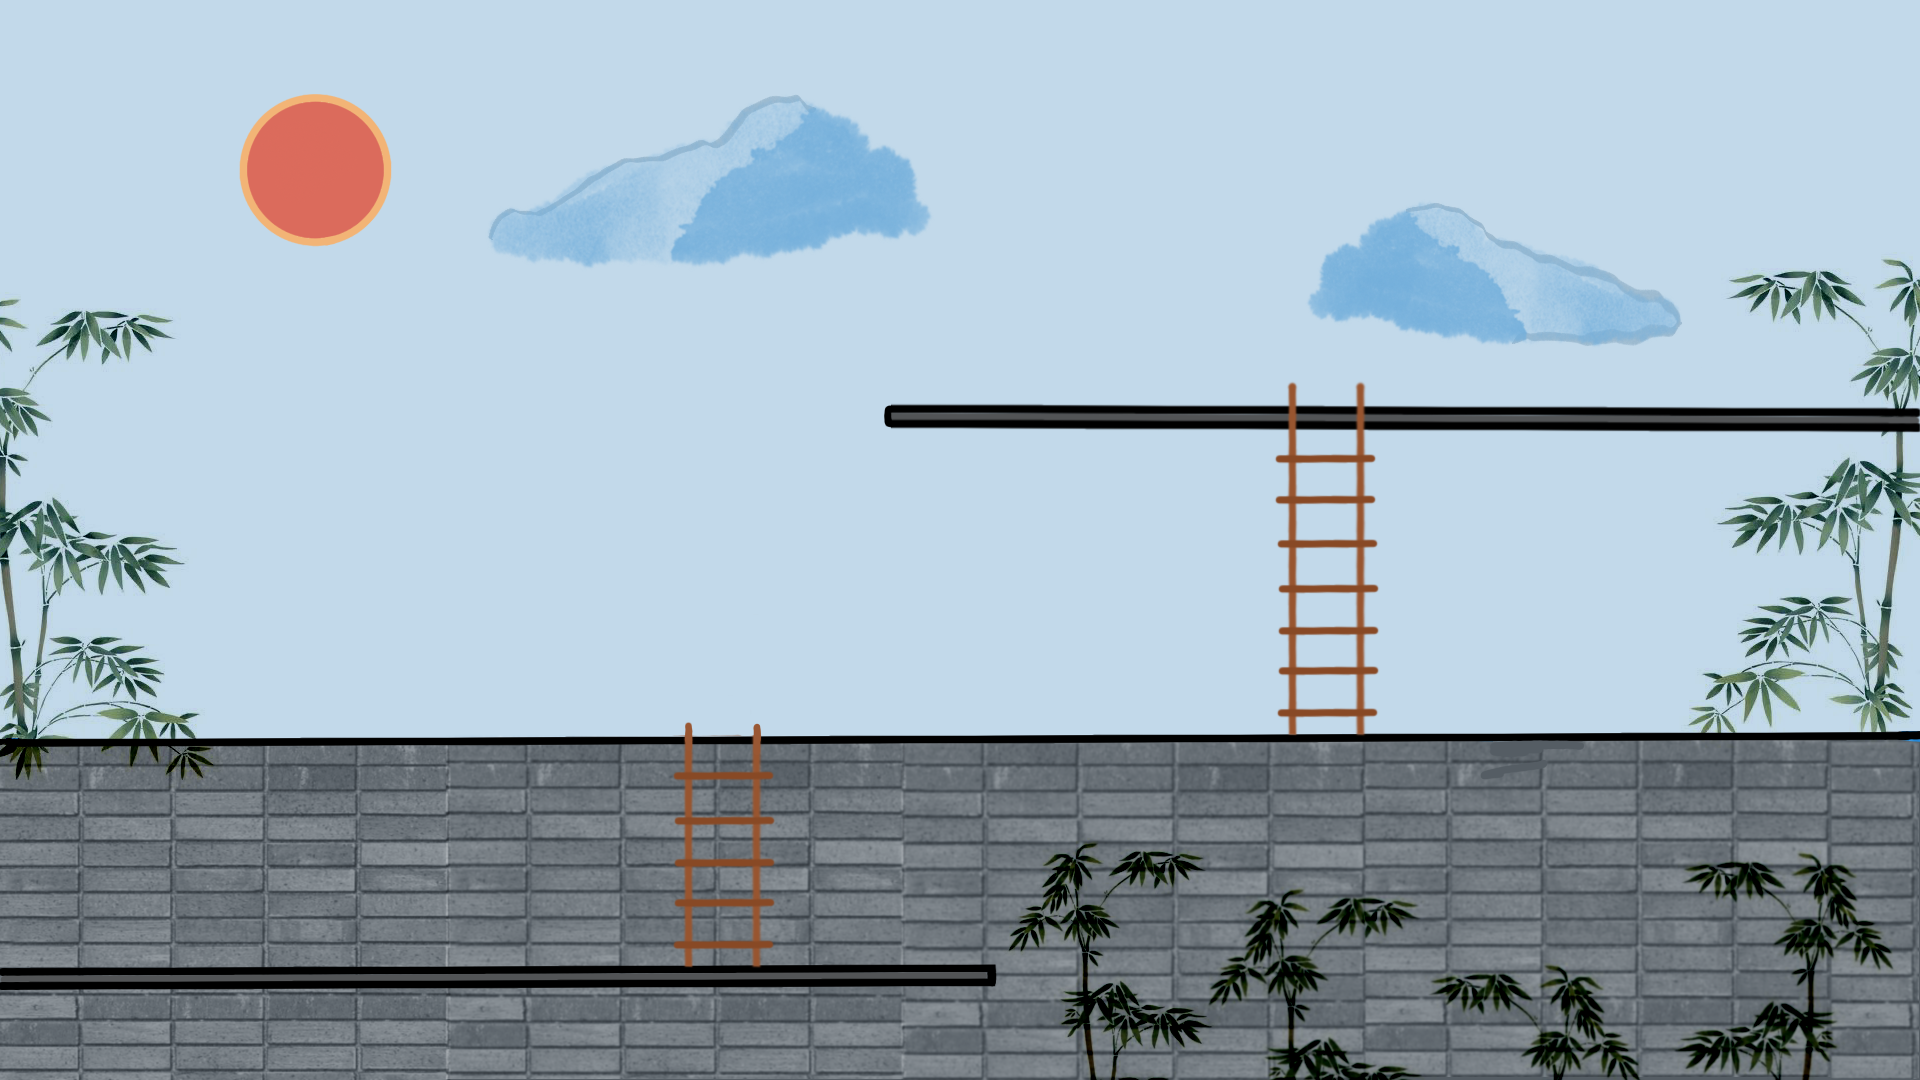
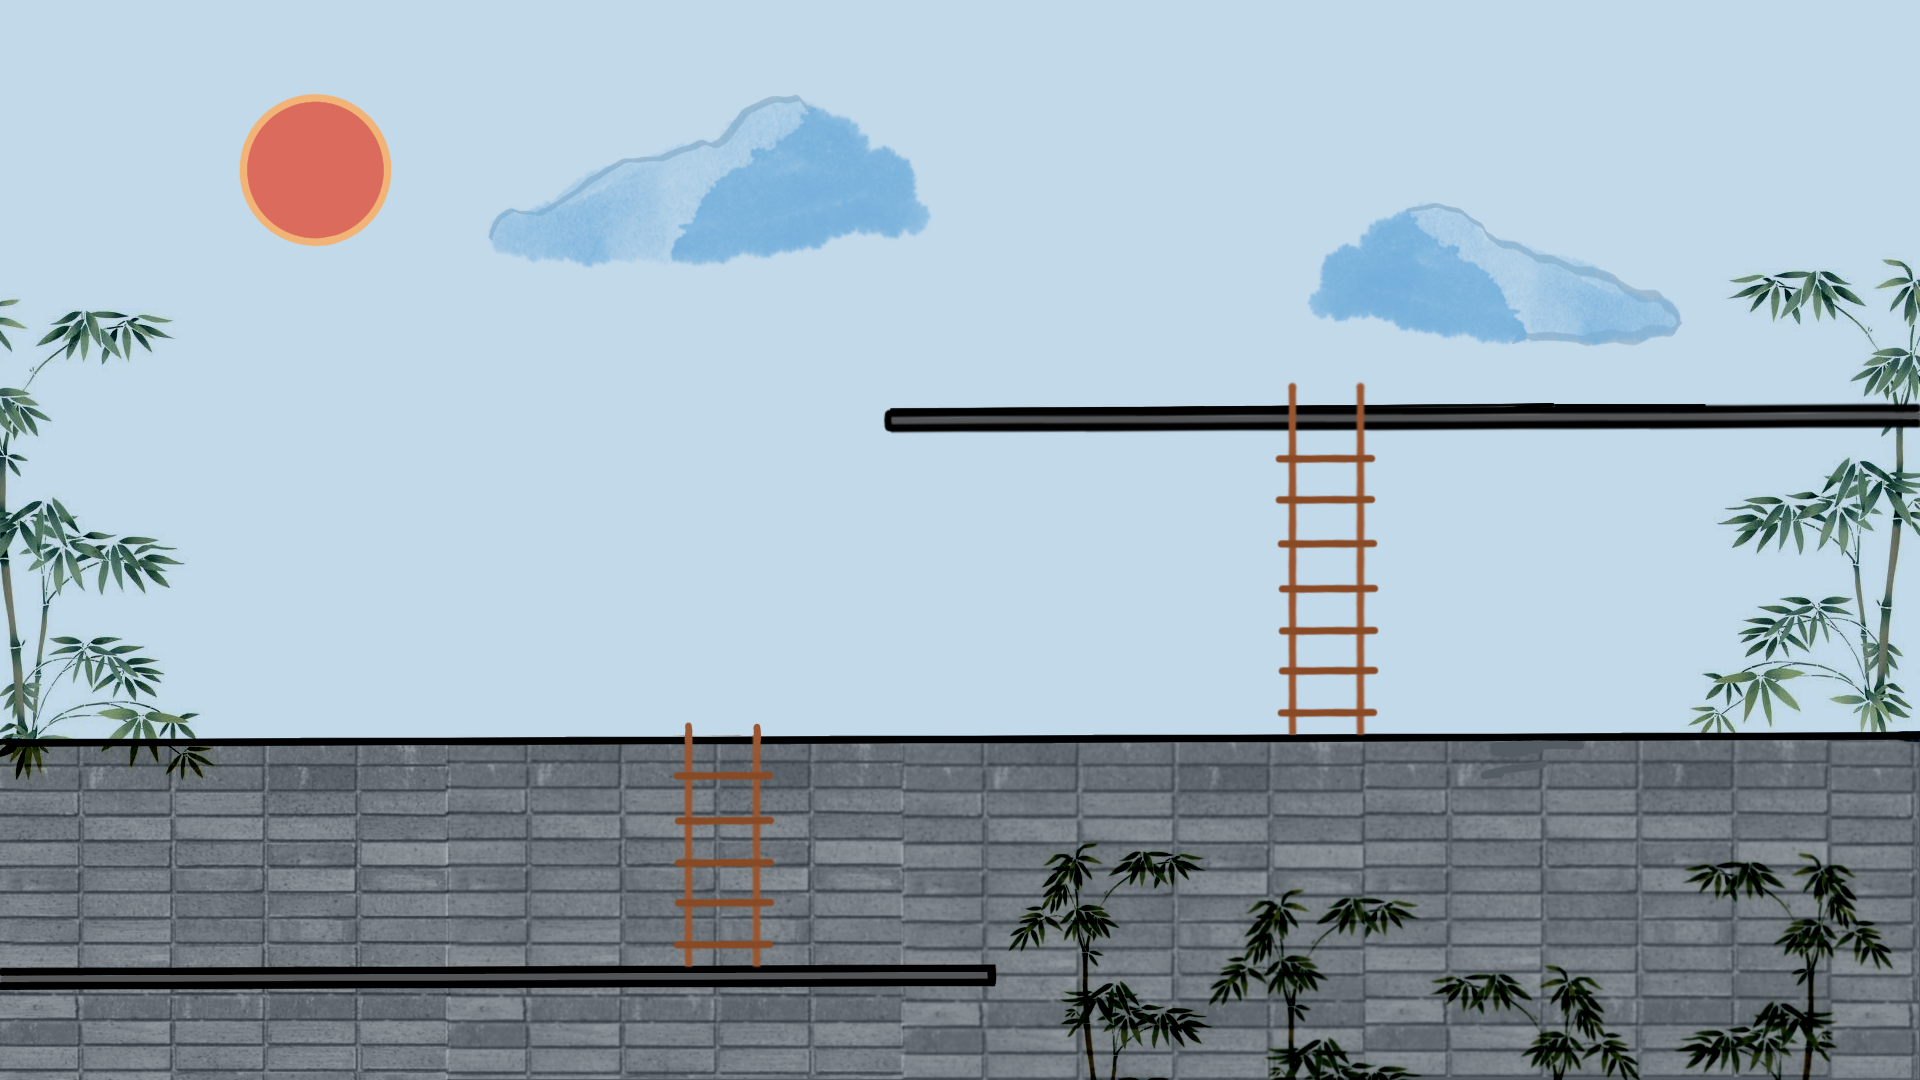
4 version

Changed region(s): [[0.4375, 0.3667, 0.6875, 0.4278], [0.75, 0.3667, 1.0, 0.3972]]

diff --git a/core/src/ru/myitschool/ronin/ScreenGame3.java b/core/src/ru/myitschool/ronin/ScreenGame3.java
@@ -1,5 +1,7 @@
 package ru.myitschool.ronin;
 
+
+
 import static ru.myitschool.ronin.MyGG.SCR_HEIGHT;
 import static ru.myitschool.ronin.MyGG.SCR_WIDTH;
 
@@ -8,7 +10,7 @@ import com.badlogic.gdx.Screen;
 import com.badlogic.gdx.graphics.Texture;
 import com.badlogic.gdx.utils.TimeUtils;
 
-public class ScreenGame implements Screen {
+public class ScreenGame3 implements Screen {
     MyGG gg;
     Texture imgGame1;
     TextButton  btnBack;
@@ -18,24 +20,26 @@ public class ScreenGame implements Screen {
     Ronin ronin;
     long timeStart;
 
-    float[] level = new float[]{110, 337, 670}; // уровни экрана
-    Ladder[] ladders = new Ladder[2]; // лестницы экрана
+    float[] level = new float[]{110, 337, 670};
+    Ladder[] ladders = new Ladder[2];
 
-    public ScreenGame(MyGG myGG) {
+    public ScreenGame3(MyGG myGG) {
         gg = myGG;
-        imgGame1 = new Texture("Game1.png"); // картинка экрана
+        imgGame1 = new Texture("Game1.png");
         btnBack = new TextButton(gg.fontSmall, "Back", SCR_WIDTH-130, SCR_HEIGHT);
         imgRonin = new  Texture("Ronin.png");
 
         ronin = new Ronin(SCR_WIDTH/6f-100,level[1],130,144);
-        ladders[0] = new Ladder(686, 754, level[0], level[1]); // лестницы экрана
-        ladders[1] = new Ladder(1290, 1362, level[1], level[2]); // лестницы экрана
+        ladders[0] = new Ladder(561, 643, level[1], level[2]);
+        ladders[1] = new Ladder(1659, 1732, level[0], level[1]);
     }
 
 
     @Override
     public void show() {
-        timeStart =TimeUtils.millis();
+        timeStart = TimeUtils.millis();
+
+
     }
 
     @Override
@@ -44,6 +48,7 @@ public class ScreenGame implements Screen {
         if(Gdx.input.justTouched()) {
             gg.touch.set(Gdx.input.getX(), Gdx.input.getY(), 0);
             gg.camera.unproject(gg.touch);
+            System.out.println(gg.touch.x +" "+ gg.touch.y);
             if(btnBack.hit(gg.touch.x, gg.touch.y)){
                 gg.setScreen(gg.screenIntro);
             } else {
@@ -77,9 +82,9 @@ public class ScreenGame implements Screen {
             }
         }
         // переходы на другие экраны
-        if(ronin.x > SCR_WIDTH-ronin.width/2){
-            gg.screenGame2.ronin.x = gg.screenGame2.ronin.width/2;
-            gg.screenGame2.ronin.y = ronin.y;
+        if(ronin.x < ronin.width/2){
+            gg.screenGame.ronin.x = SCR_WIDTH-gg.screenGame.ronin.width/2;
+            gg.screenGame.ronin.y = ronin.y;
             ronin.targetX = ronin.x-ronin.vx;
             gg.setScreen(gg.screenGame2);
         }
@@ -118,5 +123,3 @@ public class ScreenGame implements Screen {
         imgGame1.dispose();
     }
 }
-
-

diff --git a/core/src/ru/myitschool/ronin/ScreenGame2.java b/core/src/ru/myitschool/ronin/ScreenGame2.java
@@ -30,8 +30,8 @@ public class ScreenGame2 implements Screen {
         imgRonin = new  Texture("Ronin.png");
 
         ronin = new Ronin(SCR_WIDTH/6f-100,level[1],130,144);
-        ladders[0] = new Ladder(686, 754, level[0], level[1]);
-        ladders[1] = new Ladder(1290, 1362, level[1], level[2]);
+        ladders[0] = new Ladder(561, 643, level[1], level[2]);
+        ladders[1] = new Ladder(1659, 1732, level[0], level[1]);
     }
 
 
@@ -88,6 +88,13 @@ public class ScreenGame2 implements Screen {
             ronin.targetX = ronin.x-ronin.vx;
             gg.setScreen(gg.screenGame);
         }
+        if(ronin.x > SCR_WIDTH-ronin.width/2){
+            gg.screenGame2.ronin.x = gg.screenGame2.ronin.width/2;
+            gg.screenGame2.ronin.y = ronin.y;
+            ronin.targetX = ronin.x-ronin.vx;
+            gg.setScreen(gg.screenGame3);
+        }
+
 
         // отрисовка графики
         gg.camera.update();
@@ -95,7 +102,6 @@ public class ScreenGame2 implements Screen {
         gg.batch.begin();
         gg.batch.draw(imgGame1, 0, 0, SCR_WIDTH, SCR_HEIGHT);
         btnBack.font.draw(gg.batch, btnBack.text, btnBack.x, btnBack.y);
-        /*gg.batch.draw(imgRonin,-400,7,SCR_WIDTH,SCR_HEIGHT);*/
         gg.batch.draw(imgRonin, ronin.scrX(), ronin.scrY(), ronin.width, ronin.height);
         gg.batch.end();
     }

diff --git a/core/src/ru/myitschool/ronin/ScreenSettings.java b/core/src/ru/myitschool/ronin/ScreenSettings.java
@@ -14,14 +14,14 @@ import com.badlogic.gdx.graphics.Texture;
 public class ScreenSettings implements Screen {
     MyGG gg;
     Texture imgBG;
-    TextButton btnEnterName, btnSound, btnMusic, btnClearTable, btnBack;
+    TextButton btnEnterName, btnSound, btnMusic, btnBack;
     boolean enterPlayerName;
     InputKeyboard keyboard;
     String playerName = "Noname";
 
     public ScreenSettings(MyGG myGG){
         gg = myGG;
-        btnEnterName = new TextButton(gg.fontLarge, "NAME: "+playerName, 100, 600);
+        btnEnterName = new TextButton(gg.fontLarge, "NAME: "+playerName, 350, 600);
         btnSound = new TextButton(gg.fontLarge, "SOUND ON", 100, 500);
         btnMusic = new TextButton(gg.fontLarge, "MUSIC ON", 100, 400);
         btnBack = new TextButton(gg.fontLarge, "BACK", 100, 200);

diff --git a/core/src/ru/myitschool/ronin/MyGG.java b/core/src/ru/myitschool/ronin/MyGG.java
@@ -20,6 +20,7 @@ public class MyGG extends Game {
 	ScreenIntro screenIntro;
 	ScreenGame screenGame;
 	ScreenGame2 screenGame2;
+	ScreenGame3 screenGame3;
 	ScreenSettings screenSettings;
 	ScreenAbout screenAbout;
 
@@ -37,6 +38,7 @@ public class MyGG extends Game {
 		screenIntro = new ScreenIntro(this);
 		screenGame = new ScreenGame(this);
 		screenGame2 = new ScreenGame2(this);
+		screenGame3 = new ScreenGame3(this);
 		screenSettings = new ScreenSettings(this);
 		screenAbout = new ScreenAbout(this);
 		setScreen(screenIntro);
